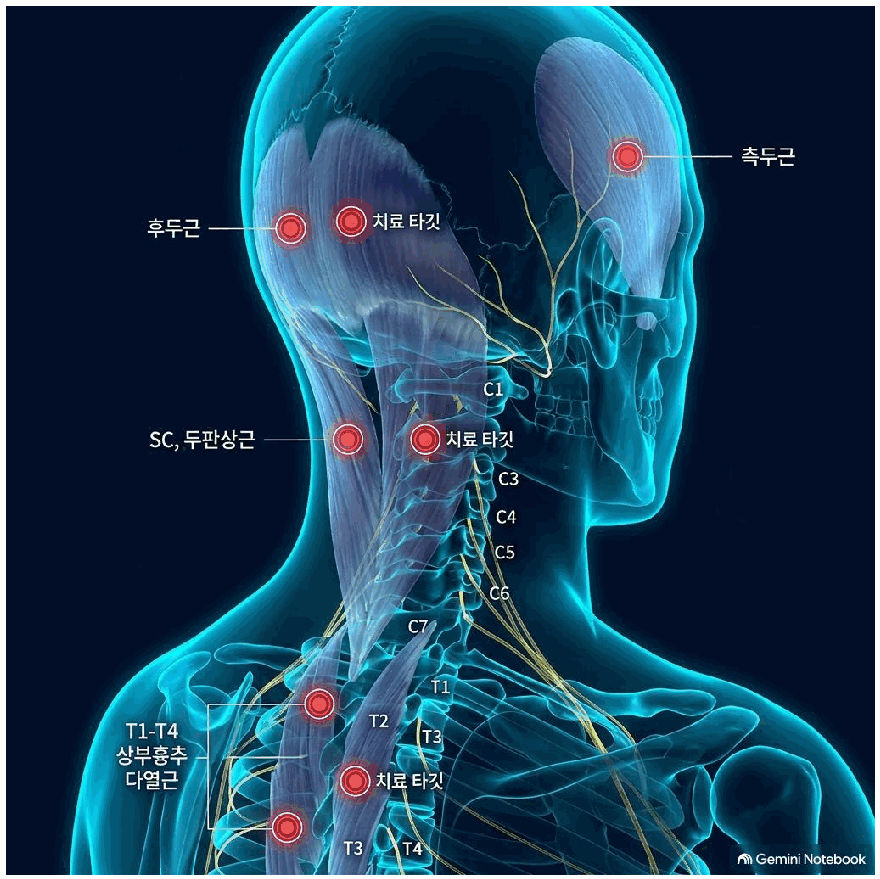
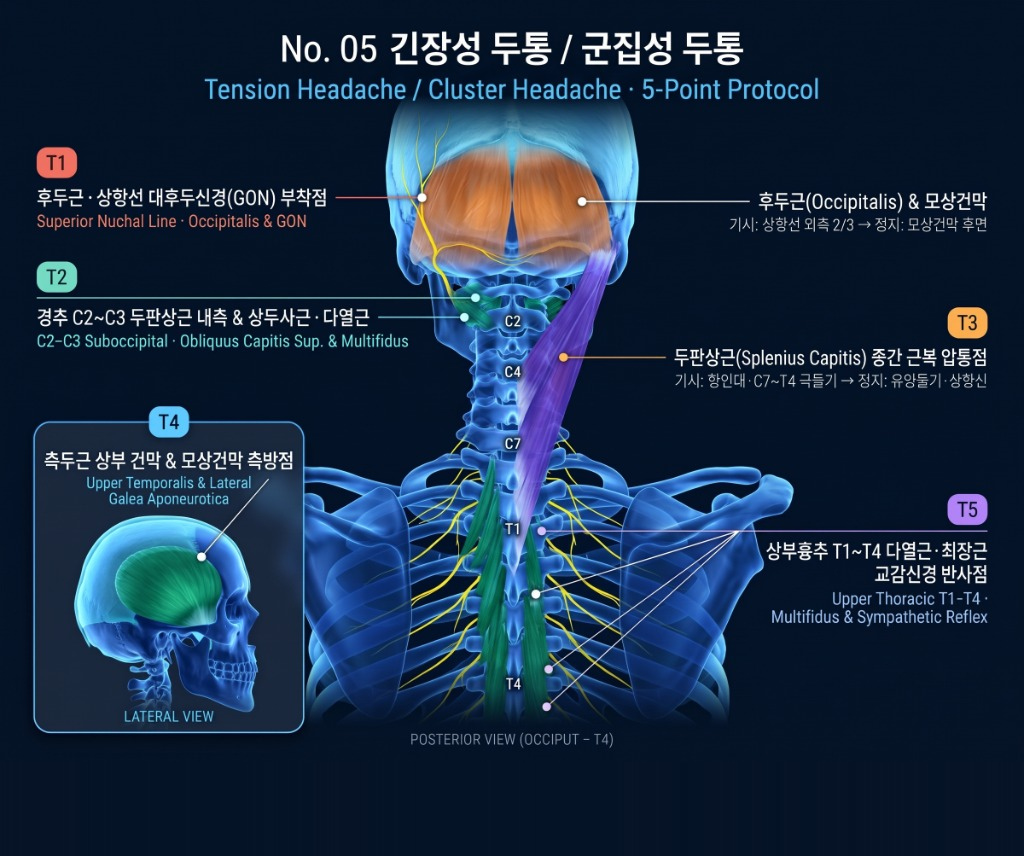
feat(healing-app): upgrade No.05 tension & cluster headache plate and align T1-T5 pins

diff --git a/healing-app/js/pain_data.js b/healing-app/js/pain_data.js
@@ -639,7 +639,7 @@ window.PAIN_CONDITIONS = [
     },
     "mechanism": {
       "ko": "자율신경 오작동 / 힘줄견인",
-      "en": "[S / TTP] Autonomic Response & Tendon Traction"
+      "en": "Autonomic Dysregulation & Tendon Traction"
     },
     "mechTags": [
       "nerve",
@@ -655,64 +655,64 @@ window.PAIN_CONDITIONS = [
       "en": "Heavy, tightening pain as if wearing a tight helmet or swim cap, often accompanied by retro-orbital eye pain."
     },
     "pathophysiology": {
-      "ko": "교체신경계적 Autonomic Nerve에 의해 두개외 근육(epicranius)의 허혈이 가중되고, 두판상근(SC) 및 후두근/측두근의 TTP 가 복합 작용함.",
-      "en": "Ischemia of epicranial muscles aggravated by sympathetic S, combined with TTPs in splenius capitis (SC), occipitalis, and temporalis."
+      "ko": "교감신경계 자율신경 오작동에 의해 두개외 근육(후두근·측두근·모상건막)의 허혈과 과긴장이 가중되고, 두판상근(SC)·상두사근·상부흉추(T1~T4) 다열근의 힘줄견인 및 대후두신경(GON) 자극이 복합 작용함.",
+      "en": "Sympathetic autonomic dysregulation aggravates ischemia of epicranial muscles (occipitalis, temporalis, galea aponeurotica), compounded by TTPs in splenius capitis, suboccipitals, and T1-T4 upper thoracic multifidus."
     },
     "targetTissues": {
-      "ko": "두판상근(Splenius capitis, SC), 후두근(Occipitalis), 측두근, T1~T4 상부흉추 다열근.",
-      "en": "Splenius capitis (SC), Occipitalis, Temporalis, T1?밫4 upper thoracic multifidus."
+      "ko": "후두근(Occipitalis · 기시: 상항선 외측 2/3 / 정지: 모상건막 후면), 대후두신경(GON), 두판상근(Splenius Capitis · 기시: 항인대·C7~T4 극돌기 / 정지: 유양돌기·상항선), 상두사근·C2~C3 다열근, 측두근 상부 건막 및 T1~T4 상부흉추 다열근·최장근.",
+      "en": "Occipitalis & galea aponeurotica, Greater Occipital Nerve (GON), Splenius Capitis (C7-T4 to mastoid), C2-C3 suboccipitals & multifidus, upper temporalis fascia, and T1-T4 upper thoracic multifidus & sympathetic reflex."
     },
     "palpation": {
-      "ko": "SC 근복, 후두골 부착부 occipitalis TTP, 상부흉추 TS/다 열근.",
-      "en": "SC muscle belly, occipitalis TTP at occipital attachment, upper thoracic TS/multifidus."
+      "ko": "① 후두근·상항선 대후두신경(GON) 부착점 ② 경추 C2~C3 두판상근 내측 & 상두사근·다열근 ③ 두판상근(SC) 중간 근복 압통점 ④ 측두근 상부 건막 & 모상건막 측방점 ⑤ 상부흉추 T1~T4 다열근·최장근 교감신경 반사점.",
+      "en": "1) Superior nuchal line occipitalis & GON 2) C2-C3 suboccipital, obliquus capitis sup. & multifidus 3) Splenius capitis mid-belly TrP 4) Upper temporalis & lateral galea 5) Upper thoracic T1-T4 multifidus & sympathetic reflex."
     },
     "clinicalCase": {
-      "ko": "안구 깊은 곳의 압박감과 후두부 전갈로 긁는 듯한 발작성 통증을 동반한 군집성 및 만성 긴장성 두통 사례. 두판상근 상부 및 T2, T3 흉추 분절 교감신경 경로에 NovaCell Therapy를 체계적으로 적용하여 자율신경 오작동을 진정시키고 두통 발작 완치.",
-      "en": "Patient with cluster headache featuring eye pain and severe scratching-like attacks in posterior head. Completely resolved following right SC and T2/T3 level TS S NovaCell therapy."
+      "ko": "안구 깊은 곳의 압박감과 후두부를 찌르고 긁는 듯한 발작성 통증을 동반한 군집성 및 만성 긴장성 두통 사례. 후두근·두판상근 및 T1~T4 상부흉추 교감신경 반사 경로에 NovaCell Therapy를 체계적으로 적용하여 자율신경 오작동을 진정시키고 두통 발작 완치.",
+      "en": "Patient with cluster headache featuring retro-orbital eye pain and severe paroxysmal occipital attacks. Completely resolved following splenius capitis and T1-T4 upper thoracic sympathetic NovaCell therapy."
     },
     "diagram": "images/diagrams/diagram_05.png",
     "targets": [
       {
         "code": "T1",
         "color": "#ff334b",
-        "x": 36.2,
-        "y": 25.6,
+        "x": 41.1,
+        "y": 23.0,
         "role": {
           "ko": "주 신경포착점",
           "en": "Primary Nerve Entrapment"
         },
         "name": {
-          "ko": "T1: 후두근·상항선 대후두신경 부착점 (후두부 헬멧 조임점)",
-          "en": "T1: Occipitalis & Superior Nuchal Line GON Point"
+          "ko": "T1: 후두근 · 상항선 대후두신경(GON) 부착점",
+          "en": "T1: Superior Nuchal Line · Occipitalis & GON"
         },
         "desc": {
-          "ko": "[표적 해부] 후두골 상항선 후두근(Occipitalis)·두반극근 건막 부착부 및 대후두신경.\n[촉지 및 시술] 뒷머리 상항선 중앙~외측 2.5cm 골막 부착부. 머리를 조이는 긴장성 두통의 후방 잠금점입니다.",
-          "en": "Occipitalis & semispinalis attachment on superior nuchal line."
+          "ko": "[표적 해부] 후두골 상항선 외측 2/3에서 기시해 모상건막 후면으로 이어지는 후두근(Occipitalis) 부착부 및 대후두신경(GON).\n[촉지 및 시술] 뒷머리 상항선 중앙~외측 2.5cm 골막 부착부. 머리에 헬멧을 쓴 듯 조이는 긴장성 두통의 후방 잠금점입니다.",
+          "en": "Occipitalis attachment and greater occipital nerve (GON) exit on the superior nuchal line."
         }
       },
       {
         "code": "T2",
         "color": "#00f5d4",
-        "x": 48.2,
-        "y": 49.9,
+        "x": 45.9,
+        "y": 35.9,
         "role": {
           "ko": "후관절·신경근점",
           "en": "Facet & Nerve Root Target"
         },
         "name": {
-          "ko": "T2: 경추 C2-C3 두판상근(SC) 내측 및 상두사근·다열근점",
-          "en": "T2: C2-C3 Splenius Capitis & Obliquus Capitis Superior"
+          "ko": "T2: 경추 C2~C3 두판상근 내측 & 상두사근 · 다열근",
+          "en": "T2: C2-C3 Suboccipital · Obliquus Capitis Sup. & Multifidus"
         },
         "desc": {
-          "ko": "[표적 해부] C2-C3 극돌기 외측 두판상근·상두사근 및 심층 다열근(제2선).\n[촉지 및 시술] 유양돌기 내측 후두골 하연(풍지혈 상방). 후두하근막 긴장과 혈류 정체를 동시에 해소합니다.",
-          "en": "C2-C3 deep multifidus, obliquus capitis superior & splenius capitis."
+          "ko": "[표적 해부] 경추 C2~C3 극돌기 외측 두판상근 내측, 상두사근(Obliquus Capitis Superior) 및 심층 다열근(제2선).\n[촉지 및 시술] 유양돌기 내측 후두골 하연(풍지혈 상방). 후두하근막 긴장과 뇌혈류 정체를 동시에 해소합니다.",
+          "en": "C2-C3 deep multifidus, obliquus capitis superior, and medial splenius capitis."
         }
       },
       {
         "code": "T3",
         "color": "#ff9f43",
-        "x": 39.6,
-        "y": 49.9,
+        "x": 55.0,
+        "y": 41.7,
         "role": {
           "ko": "심부 근복·근막점",
           "en": "Deep Myofascial Trigger Point"
@@ -722,55 +722,56 @@ window.PAIN_CONDITIONS = [
           "en": "T3: Splenius Capitis Mid-Belly Trigger Point"
         },
         "desc": {
-          "ko": "[표적 해부] 두판상근 중간 근복(승모근과 흉쇄유돌근 사이 삼각 공간).\n[촉지 및 시술] 유양돌기에서 하내측으로 내려오는 두판상근 근복. 정수리(두정부)와 안구 뒤로 쏘는 연관통을 해소합니다.",
-          "en": "Splenius capitis mid-belly referring pain to vertex and ipsilateral orbit."
+          "ko": "[표적 해부] 항인대 및 C7~T4 극돌기에서 기시해 유양돌기·상항선으로 정지하는 두판상근(Splenius Capitis) 중간 근복.\n[촉지 및 시술] 승모근과 흉쇄유돌근 사이 삼각 공간의 두판상근 근복 압통점. 정수리(두정부)와 안구 뒤로 쏘는 연관통을 해소합니다.",
+          "en": "Splenius capitis mid-belly trigger point referring pain to the vertex and ipsilateral orbit."
         }
       },
       {
         "code": "T4",
         "color": "#38bdf8",
-        "x": 71.2,
-        "y": 17.7,
+        "x": 19.6,
+        "y": 65.0,
         "role": {
-          "ko": "힘줄·골막 부착점",
-          "en": "Tendon & Periosteal Target"
+          "ko": "근막·건막 이행점",
+          "en": "Fascia & Aponeurosis Target"
         },
         "name": {
-          "ko": "T4: 측두근(Temporalis) 상부 건막 및 모상건막 측방점",
-          "en": "T4: Temporalis Superior Aponeurosis Point"
+          "ko": "T4: 측두근 상부 건막 & 모상건막 측방점",
+          "en": "T4: Upper Temporalis & Lateral Galea Aponeurotica"
         },
         "desc": {
-          "ko": "[표적 해부] 측두근 상부 부채꼴 섬유 및 두개 외측 모상건막.\n[촉지 및 시술] 귀 위쪽 측두부 압통점. 양측 관자놀이를 조이는 압박성 두통을 이완합니다.",
-          "en": "Superior temporalis fascia relieving band-like temporal headache."
+          "ko": "[표적 해부] 측두근(Temporalis) 상부 부채꼴 섬유 건막 및 두개 외측 모상건막(Galea Aponeurotica).\n[촉지 및 시술] 귀 위쪽 측두부 상연 압통점. 양측 관자놀이를 조이는 압박성 두통을 이완합니다.",
+          "en": "Upper temporalis fascia and lateral galea aponeurotica relieving band-like temporal tension headache."
         }
       },
       {
         "code": "T5",
         "color": "#a855f7",
-        "x": 36.3,
-        "y": 80.0,
+        "x": 52.3,
+        "y": 69.4,
         "role": {
           "ko": "자율신경 조절점",
           "en": "Autonomic Control Target"
         },
         "name": {
-          "ko": "T5: 상부흉추 T1-T4 다열근·최장근 교감신경 반사점",
-          "en": "T5: Upper Thoracic T1-T4 Multifidus & Autonomic Point"
+          "ko": "T5: 상부흉추 T1~T4 다열근 · 최장근 교감신경 반사점",
+          "en": "T5: Upper Thoracic T1-T4 · Multifidus & Sympathetic Reflex"
         },
         "desc": {
-          "ko": "[표적 해부] T1~T4 극돌기 외측 1.5~2cm 다열근·흉최장근 및 두경부 행 교감신경 절전섬유.\n[촉지 및 시술] 상부 흉추 제2·3선 심부 압통점. 군발 두통과 만성 긴장성 두통의 자율신경 발작을 근본 제어합니다.",
-          "en": "T1-T4 paraspinal multifidus & sympathetic preganglionic origin."
+          "ko": "[표적 해부] 상부흉추 T1~T4 극돌기 외측 1.5~2cm 다열근·흉최장근 및 두경부로 상행하는 교감신경 절전섬유 기시 분절.\n[촉지 및 시술] 상부흉추 제2·3선 심부 압통점. 군집성(군발) 두통과 만성 긴장성 두통의 자율신경 발작을 근본적으로 안정화합니다.",
+          "en": "Upper thoracic T1-T4 paraspinal multifidus & preganglionic sympathetic reflex segments controlling cluster and tension headache attacks."
         }
       }
     ],
     "anatomicalLabels": [
-      "Splenius Capitis",
-      "T2-T3 Transversospinales",
-      "Sympathetic Trunk",
-      "Greater Occipital Nerve"
+      "Superior Nuchal Line · Occipitalis & GON",
+      "C2-C3 Suboccipital · Obliquus Capitis Sup. & Multifidus",
+      "Splenius Capitis Mid-Belly Trigger Point",
+      "Upper Temporalis & Lateral Galea Aponeurotica",
+      "Upper Thoracic T1-T4 · Multifidus & Sympathetic Reflex"
     ],
     "rifeFreq": 432,
-    "searchKeywords": "긴장성 두통 / 군집성 두통 Tension Headache / Cluster Headache 머리에 꽉 죄는 헬멧이나 수영모를 쓴 듯 묵직하고 조이는 통증, 안구 통증 동반. Heavy, tightening pain as if wearing a tight helmet or swim cap, often accompanied by retro-orbital eye pain. 두경부 및 안면 질환 Head, Neck & Facial Disorders"
+    "searchKeywords": "긴장성 두통 군집성 두통 군발 두통 헬멧 두통 안구 통증 Tension Headache Cluster Headache 후두근 상항선 대후두신경 GON 두판상근 상두사근 측두근 모상건막 상부흉추 T1 T4 교감신경 두경부 및 안면 질환 Head Neck Facial Disorders"
   },
   {
     "id": 6,
